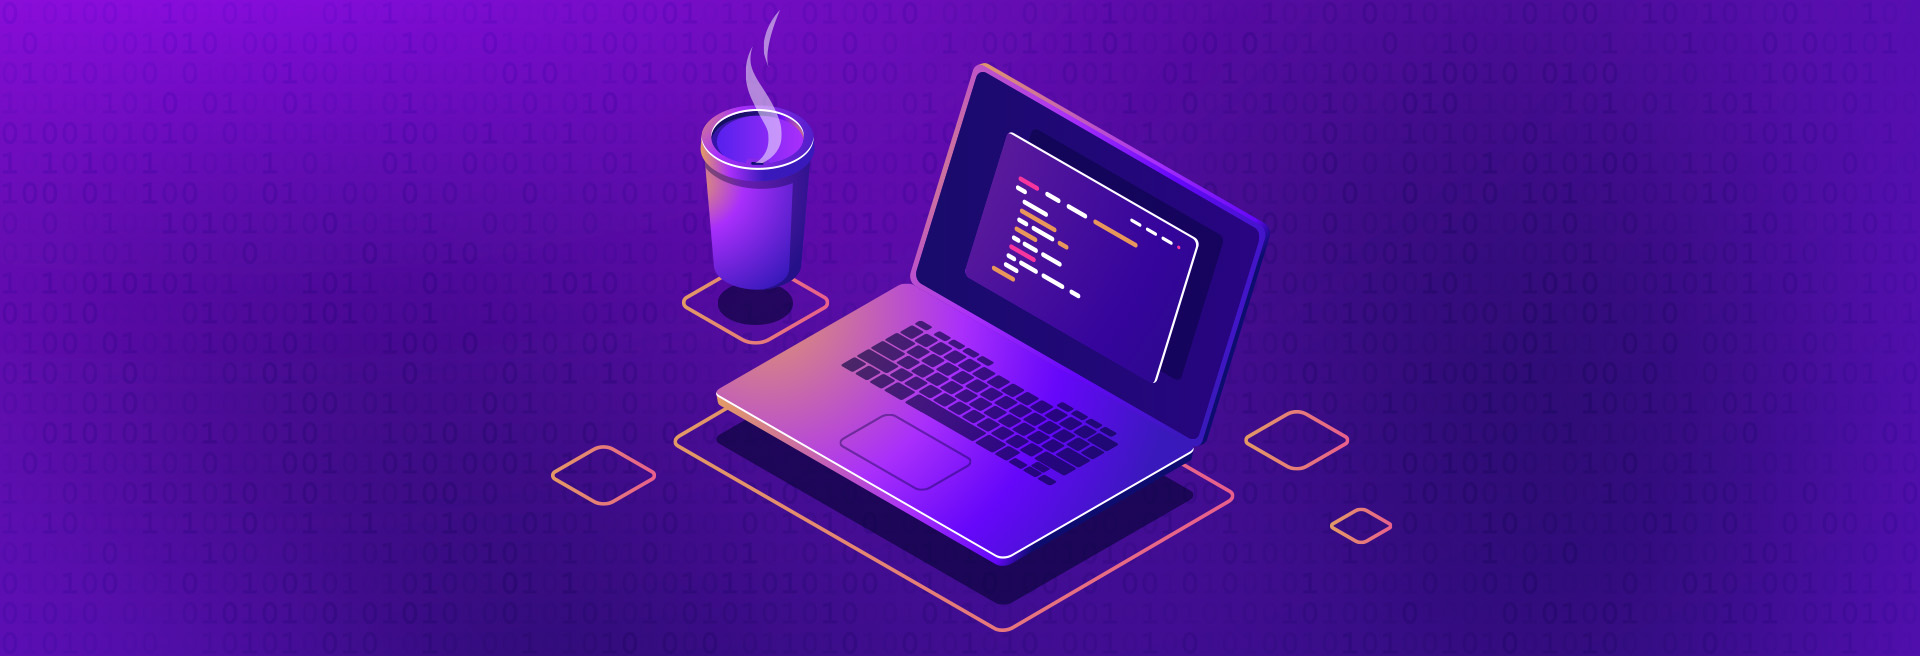
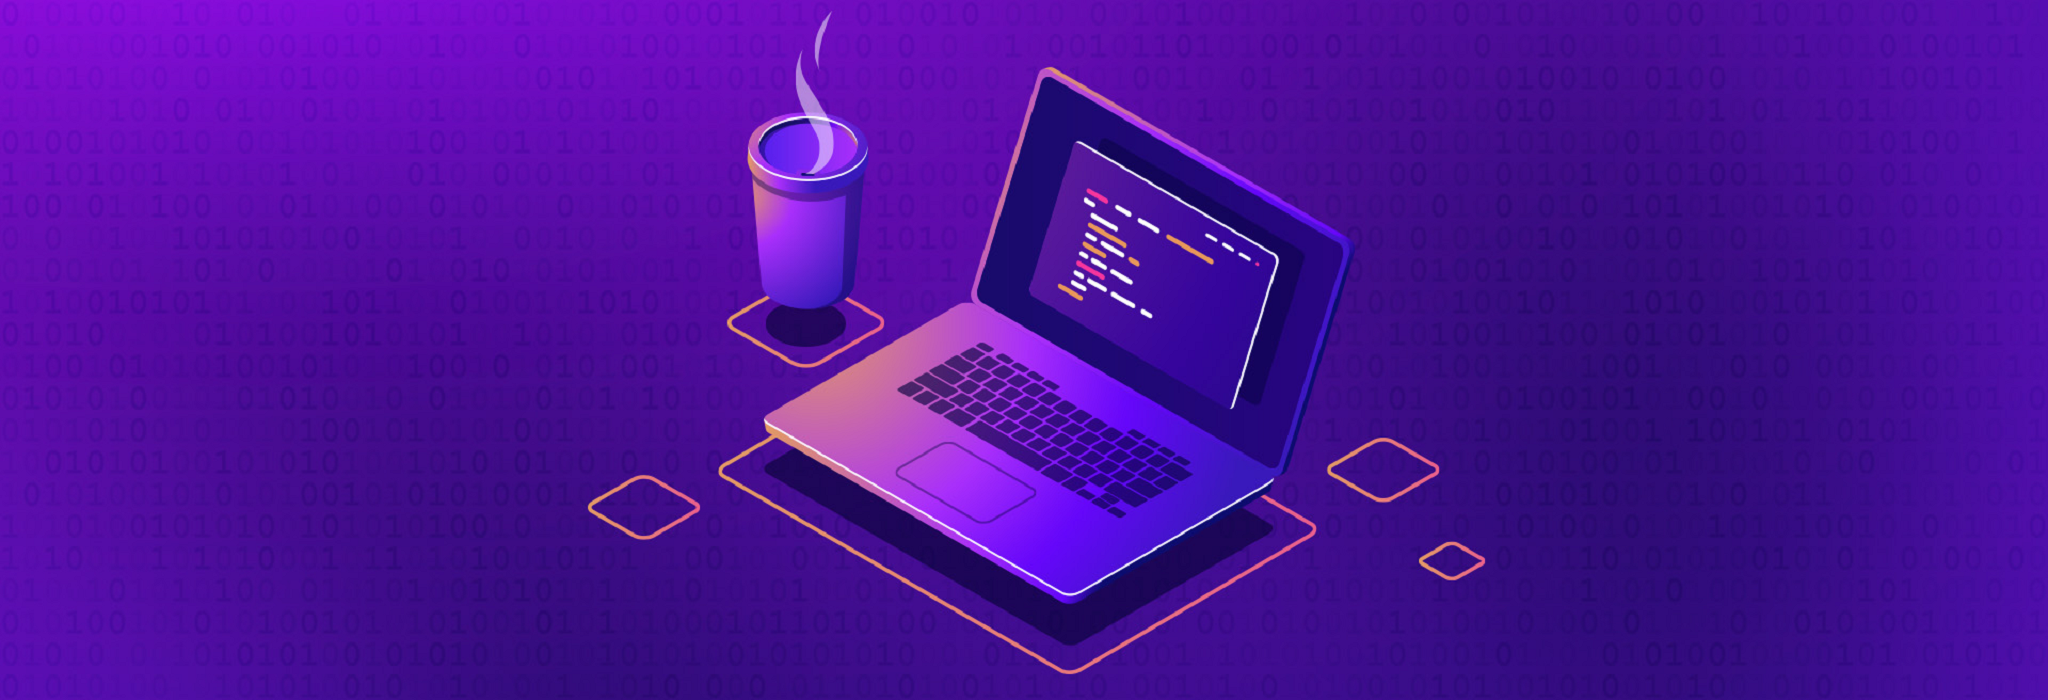
added img background to projects page

diff --git a/src/Pages/components/Skills/index.css b/src/Pages/components/Skills/index.css
@@ -1,5 +1,5 @@
 .containSkills {
-    background: url(../../../Assets/background.png) content-box;
+    background: url(../../../Assets/background.png) center;
     min-height: 100vh;
     display: flex;
     align-items: center;

diff --git a/src/Pages/components/Projects/index.css b/src/Pages/components/Projects/index.css
@@ -1,4 +1,5 @@
 .containProjects {
+    background: url(../../../Assets/background2.png) center;
     min-height: 100vh;
     display: flex;
     align-items: center;
